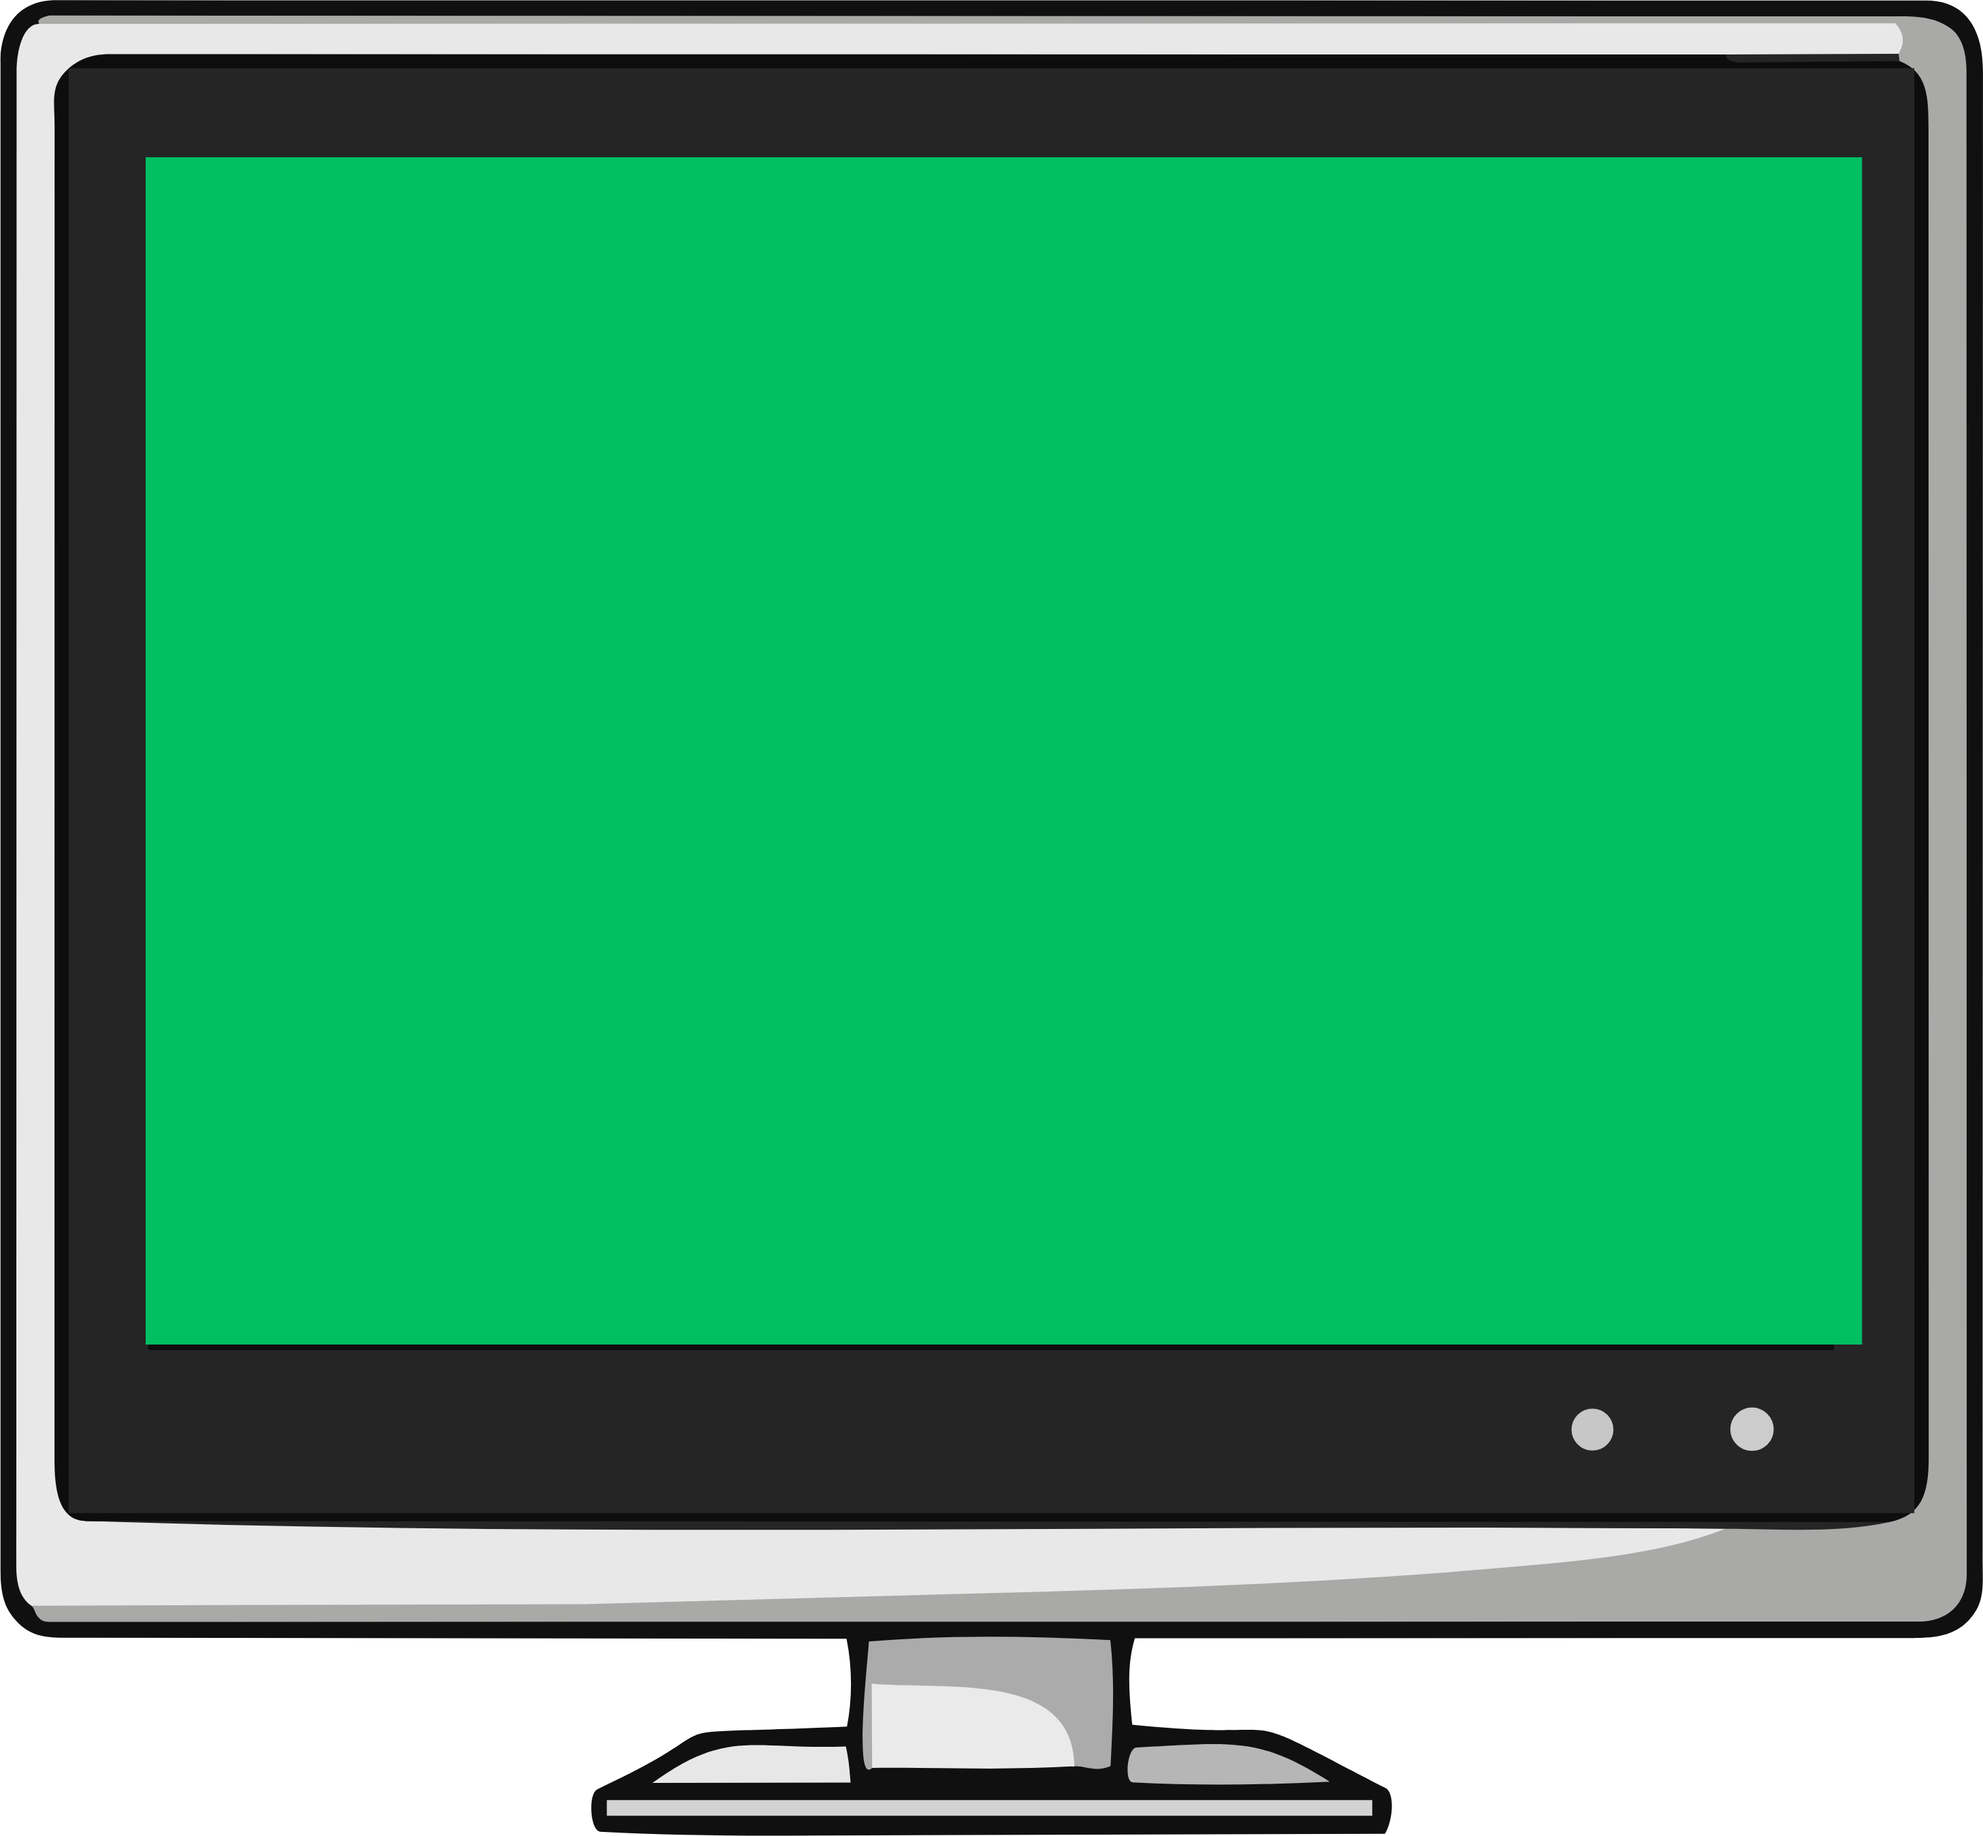
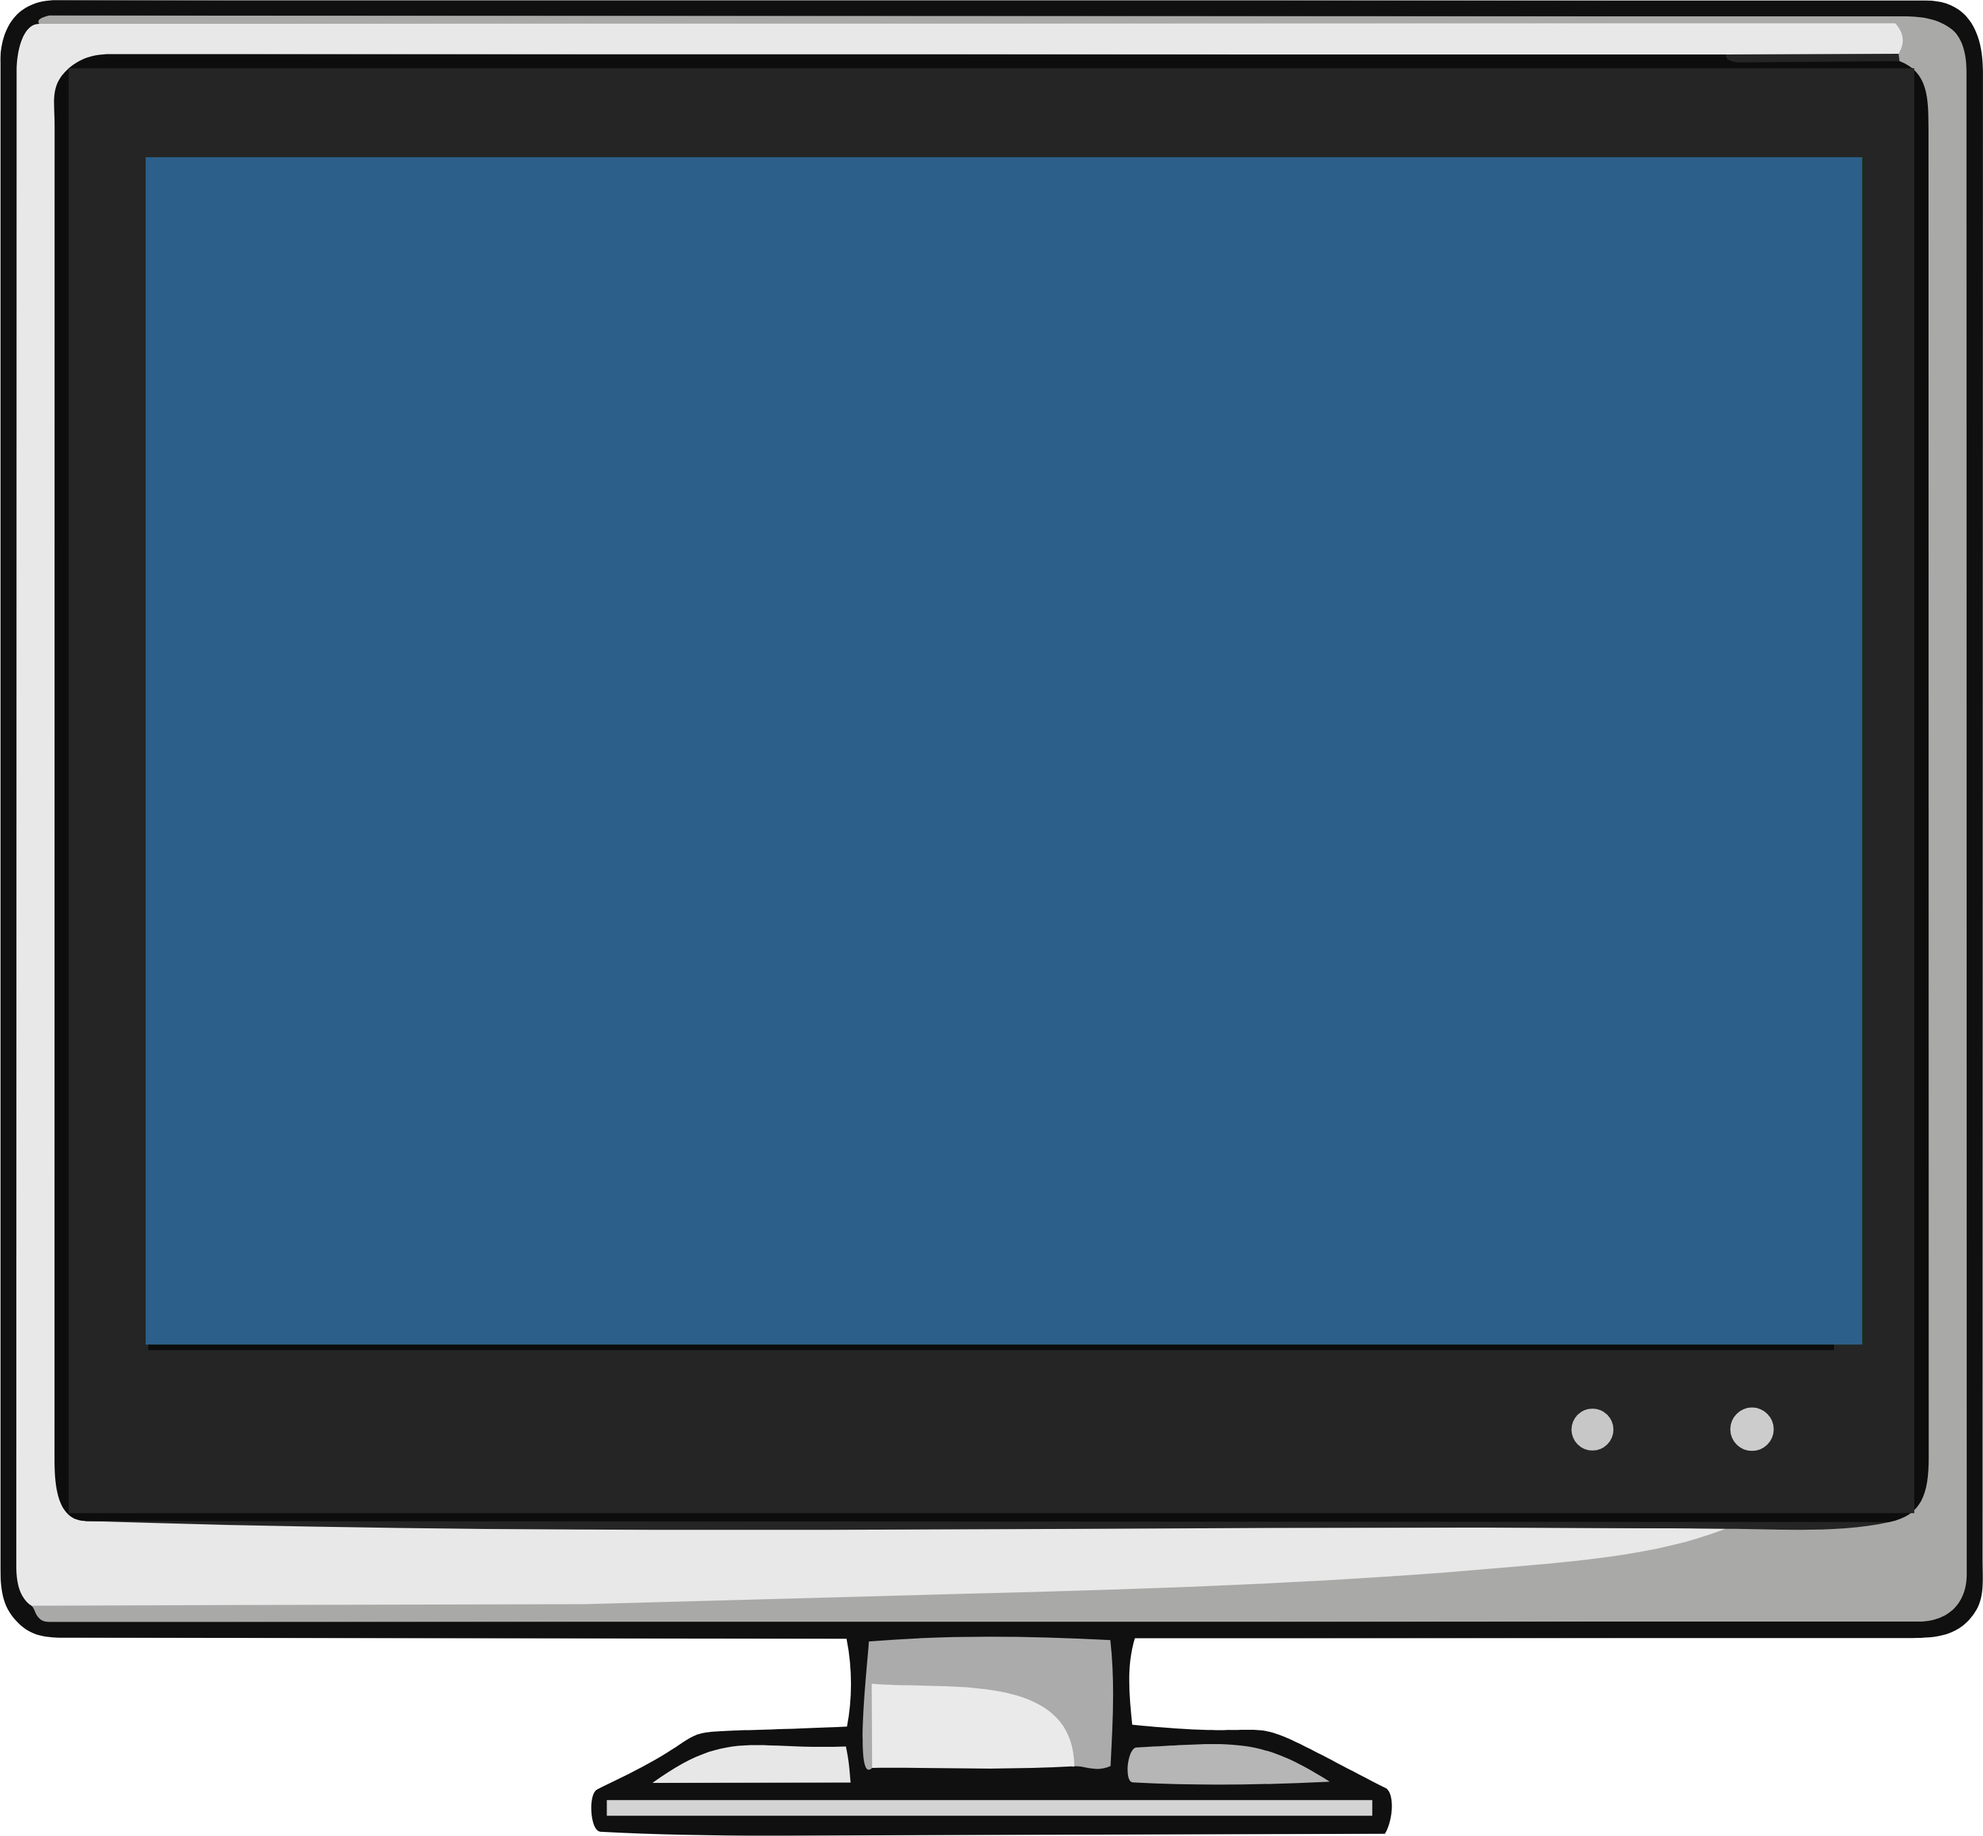
Cold-open: Jewish Security meters animate + monitor.png screen blue
Cold-open outcome panel now shows a Jewish Security block beneath the
Community Response section, mirroring the existing seg-bar pattern but
in blue. Each of the four categories (Physical Safety / Ideology /
Democracy / Communal Vitality) animates from its baseline value to its
post-choice value, with a colored overlay showing the delta direction
(green = positive, red = negative). Composite score in the section
header tweens from start to end over ~1s for visual interest. Per-choice
JSI shifts added to all three cold-open choices (jsi field with
compositeStart/compositeEnd + categories array of name/start/end/shift).

monitor.png art (used in the depth strip's "Run a Real Office" pillar)
had a bright green screen — replaced the green channel with the same
desktop blue (#2c5f8a) used by the live monitor screen in-game, so the
icon visually matches the actual monitor the player will use.

diff --git a/index.html b/index.html
@@ -81,6 +81,24 @@ body {
 .pol-shift-center { color: var(--muted); }
 .cold-outcome-seg { border-top: 1px solid var(--border); padding-top: 10px; }
 .cold-outcome-seg-label { font-size: 9px; font-weight: 700; letter-spacing: 1.5px; text-transform: uppercase; color: var(--muted); margin-bottom: 6px; }
+/* Jewish Security block — mirrors the segments layout but in blue, with a
+   composite score + shift indicator at the top right. */
+.cold-outcome-jsi { border-top: 1px solid var(--border); padding-top: 10px; margin-top: 10px; }
+.cold-outcome-jsi-header { display: flex; justify-content: space-between; align-items: baseline; margin-bottom: 6px; }
+.cold-outcome-jsi-composite { display: flex; align-items: baseline; gap: 6px; }
+.cold-outcome-jsi-comp-num { font-family: 'Merriweather', serif; font-weight: 900; font-size: 18px; color: #1a3a5e; transition: color 0.5s; }
+.cold-outcome-jsi-comp-shift { font-size: 11px; font-weight: 700; }
+.cold-outcome-jsi-comp-shift.positive { color: #16a34a; }
+.cold-outcome-jsi-comp-shift.negative { color: #dc2626; }
+.jsi-row-lp { display: flex; align-items: center; gap: 8px; margin-bottom: 4px; font-size: 11px; }
+.jsi-name-lp { width: 110px; font-weight: 600; color: var(--muted); font-size: 10px; flex-shrink: 0; }
+.jsi-bar-bg-lp { flex: 1; height: 8px; background: rgba(0,0,0,0.06); border: 1px solid var(--border); position: relative; overflow: hidden; }
+.jsi-bar-fill-lp { height: 100%; transition: width 1s ease; position: absolute; left: 0; top: 0; background: #6ba5e7; }
+.jsi-bar-shift-lp { position: absolute; top: 0; height: 100%; transition: width 1s ease; }
+.jsi-bar-shift-lp.positive { background: rgba(74,222,128,0.55); }
+.jsi-bar-shift-lp.negative { background: rgba(248,113,113,0.55); }
+.jsi-val-lp { width: 50px; text-align: right; font-family: 'Merriweather', serif; font-weight: 700; font-size: 11px; flex-shrink: 0; color: #1a3a5e; }
+.jsi-shift-lp { font-size: 10px; font-weight: 700; margin-left: 3px; }
 .seg-row-lp { display: flex; align-items: center; gap: 8px; margin-bottom: 4px; font-size: 11px; }
 .seg-name-lp { width: 85px; font-weight: 600; color: var(--muted); font-size: 10px; flex-shrink: 0; }
 .seg-bar-bg-lp { flex: 1; height: 8px; background: rgba(0,0,0,0.06); border: 1px solid var(--border); position: relative; overflow: hidden; }
@@ -1511,6 +1529,16 @@ hr.div { border: none; border-top: 1px solid var(--border); margin: 26px 0; }
           <div class="cold-outcome-seg-label">Community Response</div>
           <div id="lp-seg-bars"></div>
         </div>
+        <div class="cold-outcome-jsi">
+          <div class="cold-outcome-jsi-header">
+            <div class="cold-outcome-seg-label">Jewish Security</div>
+            <div class="cold-outcome-jsi-composite">
+              <span class="cold-outcome-jsi-comp-num" id="lp-jsi-comp">--</span>
+              <span class="cold-outcome-jsi-comp-shift" id="lp-jsi-comp-shift"></span>
+            </div>
+          </div>
+          <div id="lp-jsi-bars"></div>
+        </div>
       </div>
     </div>
     <div class="cold-transition" id="lp-transition"><p id="lp-transition-text"></p></div>
@@ -1939,7 +1967,17 @@ const GAME_DATA = {
                 "val": -2,
                 "pct": 46
               }
-            ]
+            ],
+            "jsi": {
+              "compositeStart": 42,
+              "compositeEnd": 48,
+              "categories": [
+                { "name": "Physical Safety", "start": 42, "end": 48, "shift": 6 },
+                { "name": "Ideology", "start": 45, "end": 50, "shift": 5 },
+                { "name": "Democracy", "start": 30, "end": 32, "shift": 2 },
+                { "name": "Communal Vitality", "start": 50, "end": 52, "shift": 2 }
+              ]
+            }
           },
           {
             "text": "Coordinate a joint response with the Interfaith Council and campus civil rights groups first",
@@ -2000,7 +2038,17 @@ const GAME_DATA = {
                 "val": 3,
                 "pct": 60
               }
-            ]
+            ],
+            "jsi": {
+              "compositeStart": 42,
+              "compositeEnd": 50,
+              "categories": [
+                { "name": "Physical Safety", "start": 42, "end": 45, "shift": 3 },
+                { "name": "Ideology", "start": 45, "end": 50, "shift": 5 },
+                { "name": "Democracy", "start": 30, "end": 33, "shift": 3 },
+                { "name": "Communal Vitality", "start": 50, "end": 56, "shift": 6 }
+              ]
+            }
           },
           {
             "text": "Focus inward — organize support for affected students and staff before making any public statement",
@@ -2061,7 +2109,17 @@ const GAME_DATA = {
                 "val": 4,
                 "pct": 62
               }
-            ]
+            ],
+            "jsi": {
+              "compositeStart": 42,
+              "compositeEnd": 41,
+              "categories": [
+                { "name": "Physical Safety", "start": 42, "end": 41, "shift": -1 },
+                { "name": "Ideology", "start": 45, "end": 43, "shift": -2 },
+                { "name": "Democracy", "start": 30, "end": 30, "shift": 0 },
+                { "name": "Communal Vitality", "start": 50, "end": 53, "shift": 3 }
+              ]
+            }
           }
         ],
         "transitionText": "That was day one. You have twelve months to go.",
@@ -21716,9 +21774,71 @@ function lpPickChoice(idx) {
     var valStr = (s.val > 0 ? '+' : '') + s.val;
     return '<div class="seg-row-lp"><span class="seg-name-lp">' + esc(s.name) + '</span><div class="seg-bar-bg-lp"><div class="seg-bar-fill-lp ' + barCls + '" style="width:0%" data-target="' + s.pct + '"></div></div><span class="seg-val-lp ' + valCls + '">' + valStr + '</span></div>';
   }).join('');
+  // Jewish Security composite + per-category bars. Each row animates from
+  // its baseline ("start") to its post-choice value ("end") with a colored
+  // overlay showing the delta (green = positive, red = negative).
+  if (choice.jsi) {
+    var compNum = document.getElementById('lp-jsi-comp');
+    var compShift = document.getElementById('lp-jsi-comp-shift');
+    if (compNum) compNum.textContent = choice.jsi.compositeStart;
+    if (compShift) {
+      var d = (choice.jsi.compositeEnd - choice.jsi.compositeStart);
+      var ds = (d > 0 ? '+' : '') + d;
+      compShift.textContent = ds;
+      compShift.className = 'cold-outcome-jsi-comp-shift ' + (d > 0 ? 'positive' : (d < 0 ? 'negative' : ''));
+    }
+    document.getElementById('lp-jsi-bars').innerHTML = (choice.jsi.categories || []).map(function(c, i) {
+      var startPct = Math.max(0, Math.min(100, c.start));
+      var endPct = Math.max(0, Math.min(100, c.end));
+      var shiftCls = c.shift > 0 ? 'positive' : (c.shift < 0 ? 'negative' : '');
+      var shiftLeft = Math.min(startPct, endPct);
+      var shiftWidth = Math.abs(endPct - startPct);
+      var shiftStr = c.shift === 0 ? '' : ' <span class="jsi-shift-lp ' + (c.shift > 0 ? 'seg-val-pos' : 'seg-val-neg') + '">' + (c.shift > 0 ? '+' : '') + c.shift + '</span>';
+      return '<div class="jsi-row-lp">' +
+        '<span class="jsi-name-lp">' + esc(c.name) + '</span>' +
+        '<div class="jsi-bar-bg-lp">' +
+          '<div class="jsi-bar-fill-lp" data-baseline="' + startPct + '" data-target="' + endPct + '" style="width:' + startPct + '%"></div>' +
+          (c.shift !== 0 ? '<div class="jsi-bar-shift-lp ' + shiftCls + '" data-left="' + shiftLeft + '" data-width="0" style="left:' + shiftLeft + '%;width:0%"></div>' : '') +
+        '</div>' +
+        '<span class="jsi-val-lp" data-baseline="' + startPct + '" data-target="' + endPct + '">' + startPct + shiftStr + '</span>' +
+        '</div>';
+    }).join('');
+  }
   document.getElementById('lp-outcome').classList.add('visible');
   setTimeout(function() {
     document.querySelectorAll('.seg-bar-fill-lp').forEach(function(b) { b.style.width = b.getAttribute('data-target') + '%'; });
+    // Animate JSI bars from start to end and tick the composite to its new value.
+    document.querySelectorAll('.jsi-bar-fill-lp').forEach(function(b) {
+      var target = parseFloat(b.getAttribute('data-target'));
+      b.style.width = target + '%';
+    });
+    document.querySelectorAll('.jsi-bar-shift-lp').forEach(function(b) {
+      // Recompute width from data attributes set on the underlying bar
+      var row = b.closest('.jsi-row-lp');
+      var fill = row && row.querySelector('.jsi-bar-fill-lp');
+      var s = fill ? parseFloat(fill.getAttribute('data-baseline')) : 0;
+      var t = fill ? parseFloat(fill.getAttribute('data-target')) : 0;
+      b.style.width = Math.abs(t - s) + '%';
+    });
+    document.querySelectorAll('.jsi-val-lp').forEach(function(v) {
+      var t = parseFloat(v.getAttribute('data-target'));
+      var current = v.firstChild;
+      if (current && current.nodeType === 3) current.textContent = t;
+    });
+    if (choice.jsi) {
+      var compNum = document.getElementById('lp-jsi-comp');
+      if (compNum) {
+        // Tween the composite number for visual interest
+        var s = choice.jsi.compositeStart, t = choice.jsi.compositeEnd;
+        var steps = 18, stepi = 0;
+        var iv = setInterval(function() {
+          stepi++;
+          var v = Math.round(s + (t - s) * (stepi / steps));
+          compNum.textContent = v;
+          if (stepi >= steps) clearInterval(iv);
+        }, 56);
+      }
+    }
   }, 250);
   setTimeout(function() { document.getElementById('lp-transition').classList.add('visible'); }, 1200);
   ['lp-reveal','lp-depth','lp-advisors','lp-headlines','lp-bottom'].forEach(function(id,i) {
